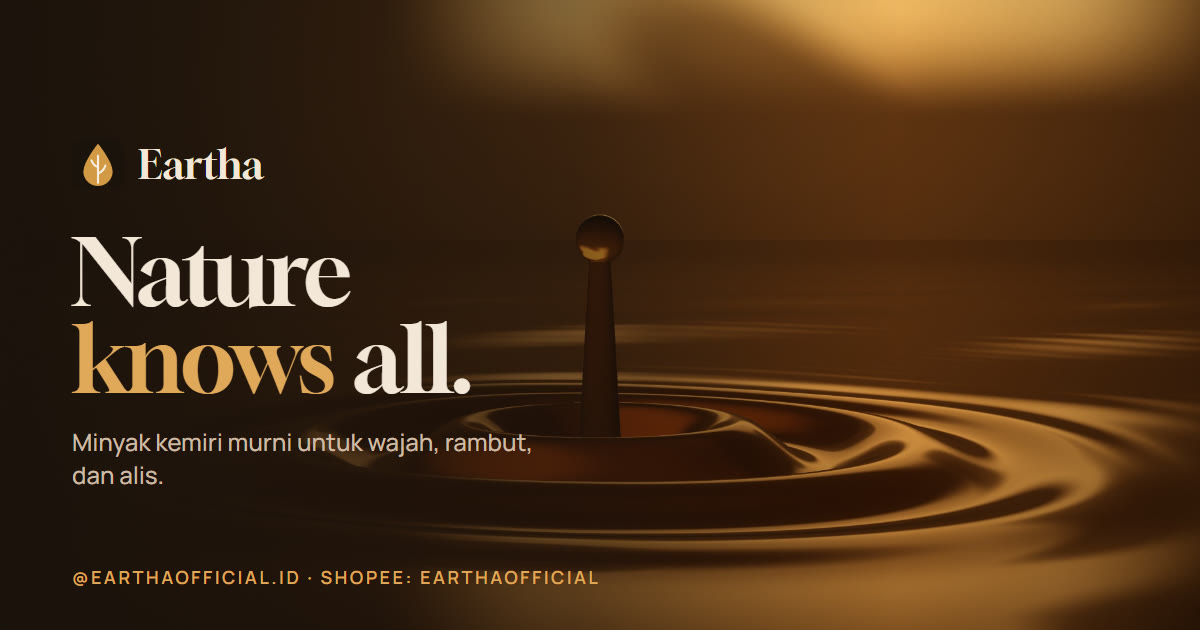
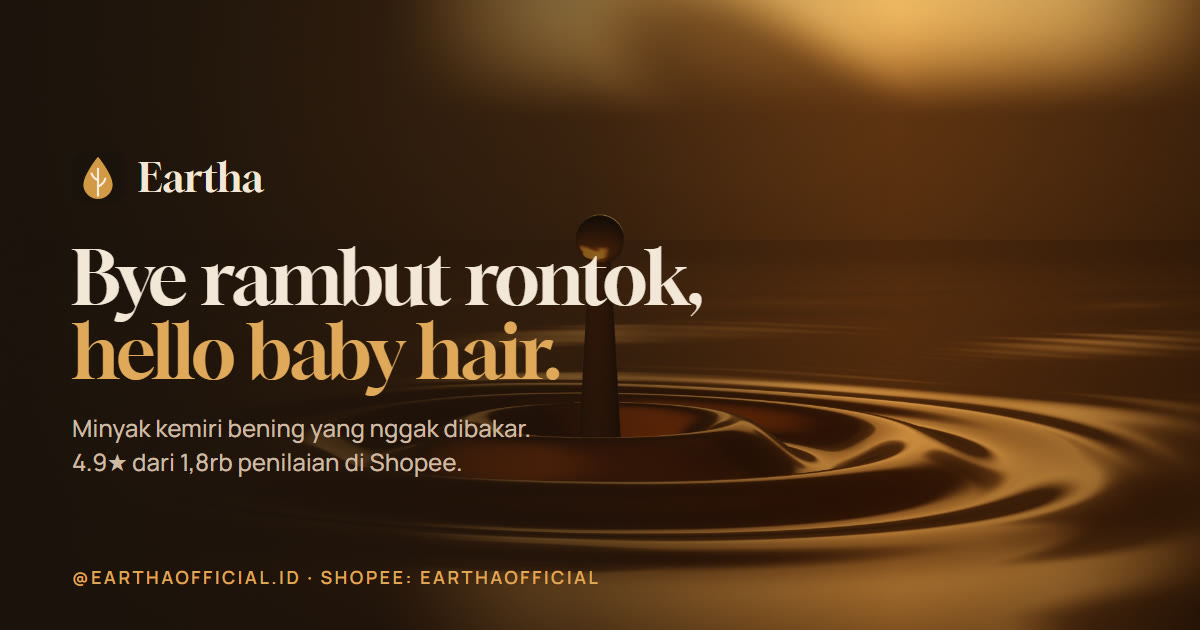
Rewrite copy with 6P, 5C and hook-body-CTA

Changed region(s): [[0.0617, 0.3619, 0.5858, 0.6333], [0.0617, 0.6635, 0.4625, 0.7841], [0.0617, 0.2413, 0.2158, 0.3317]]

diff --git a/index.html b/index.html
@@ -3,23 +3,23 @@
 <head>
 <meta charset="utf-8">
 <meta name="viewport" content="width=device-width, initial-scale=1, viewport-fit=cover">
-<title>Eartha Official — Minyak Kemiri Murni untuk Rambut, Alis &amp; Wajah</title>
-<meta name="description" content="Minyak kemiri Eartha dibuat tanpa dibakar, jadi bening, bukan hitam. Lavender Infused untuk kulit kepala berketombe, Nourishing Oil (kemiri + seledri) untuk rambut rontok, plus Salmon en Croute untuk hampers. 4.9★ di Shopee.">
+<title>Eartha — Minyak Kemiri Bening untuk Rambut Rontok &amp; Ketombe</title>
+<meta name="description" content="Minyak kemiri yang nggak dibakar, jadi bening dan nggak ninggalin bekas hitam di bantal. Nourishing Oil untuk rambut rontok, Lavender untuk ketombe. 4.9★ dari 1,8rb penilaian di Shopee.">
 <link rel="canonical" href="https://somau.github.io/eartha/">
 <meta name="theme-color" content="#1a130c">
 <meta property="og:type" content="website">
 <meta property="og:site_name" content="Eartha Official">
 <meta property="og:locale" content="id_ID">
-<meta property="og:title" content="Eartha Official — Nature knows all">
-<meta property="og:description" content="Minyak kemiri bening yang nggak dibakar, untuk kulit kepala, alis, dan wajah. Bye rambut rontok, hello baby hair.">
+<meta property="og:title" content="Bye rambut rontok, hello baby hair. | Eartha">
+<meta property="og:description" content="Minyak kemiri bening yang nggak dibakar. Teteskan, pijat, tinggal tidur. 4.9★ dari 1,8rb penilaian di Shopee.">
 <meta property="og:url" content="https://somau.github.io/eartha/">
 <meta property="og:image" content="https://somau.github.io/eartha/og.jpg">
 <meta property="og:image:width" content="1200">
 <meta property="og:image:height" content="630">
-<meta property="og:image:alt" content="Setetes minyak kemiri jatuh ke permukaan minyak keemasan, dengan logo Eartha">
+<meta property="og:image:alt" content="Setetes minyak kemiri jatuh ke permukaan minyak keemasan, dengan tulisan Bye rambut rontok, hello baby hair">
 <meta name="twitter:card" content="summary_large_image">
-<meta name="twitter:title" content="Eartha Official — Nature knows all">
-<meta name="twitter:description" content="Minyak kemiri murni untuk wajah, rambut, dan alis.">
+<meta name="twitter:title" content="Bye rambut rontok, hello baby hair. | Eartha">
+<meta name="twitter:description" content="Minyak kemiri bening yang nggak dibakar. Teteskan, pijat, tinggal tidur.">
 <meta name="twitter:image" content="https://somau.github.io/eartha/og.jpg">
 <link rel="icon" href="favicon.svg" type="image/svg+xml">
 <link rel="icon" href="favicon-32.png" sizes="32x32" type="image/png">
@@ -129,9 +129,10 @@ h2 em,h1 em,h3 em{font-style:normal;color:var(--amber-deep)}
 .hero .l-leaves svg.left{left:-10%;right:auto;bottom:auto;top:-18%;width:min(36vw,420px);transform:rotate(160deg);opacity:.7}
 .hero .l-copy{z-index:3;display:flex;align-items:flex-end}
 .hero .copy{padding-bottom:clamp(56px,11vh,120px);max-width:760px}
-.hero h1{font-size:clamp(52px,9vw,124px);line-height:.95;margin:0 0 22px;font-weight:400;letter-spacing:-.02em}
+.hero h1{font-size:clamp(46px,7.4vw,108px);line-height:.98;margin:0 0 22px;font-weight:400;letter-spacing:-.02em}
 .hero p.lede .hl{color:var(--on-dark)}
 .hero p.lede{font-size:clamp(17px,1.6vw,20px);color:var(--on-dark-muted);max-width:30em;margin:0 0 30px}
+.hero .local .stars{color:#e0a95a;letter-spacing:1px;margin-right:4px}
 .hero .local{margin:26px 0 0;font-size:13px;color:var(--on-dark-muted);letter-spacing:.04em}
 .hero .ctas{display:flex;gap:12px;flex-wrap:wrap}
 .vid-toggle{position:absolute;right:var(--gutter);bottom:28px;z-index:4;width:44px;height:44px;border-radius:50%;border:1px solid rgba(243,232,216,.35);background:rgba(26,19,12,.35);color:var(--on-dark);display:grid;place-items:center;cursor:pointer;backdrop-filter:blur(6px)}
@@ -145,6 +146,8 @@ h2 em,h1 em,h3 em{font-style:normal;color:var(--amber-deep)}
 .about .grid{display:grid;grid-template-columns:1.05fr .95fr;gap:clamp(40px,7vw,110px);align-items:center}
 .about h2{margin:18px 0 26px}
 .about p{color:var(--muted);max-width:34em;margin:0 0 18px}
+.about .pull{font:400 20px/1.4 var(--serif);color:var(--ink);border-left:2px solid var(--amber);padding-left:16px;margin-top:26px}
+.about .pull span{display:block;font:500 13px/1.4 var(--sans);color:var(--muted);margin-top:8px}
 .facts{display:grid;grid-template-columns:repeat(3,1fr);gap:0;margin-top:40px;border-top:1px solid var(--line)}
 .facts div{padding:20px 16px 0 0}
 .facts b{display:block;font:400 30px/1.1 var(--serif);color:var(--ink)}
@@ -170,6 +173,8 @@ h2 em,h1 em,h3 em{font-style:normal;color:var(--amber-deep)}
 .card .tag{font:600 11px/1 var(--sans);letter-spacing:.18em;text-transform:uppercase;color:var(--amber-deep)}
 .card h3{font-size:clamp(26px,2.6vw,34px);line-height:1.08}
 .card p{margin:0;color:var(--muted);font-size:16px}
+.card p.proof{font:400 17px/1.45 var(--serif);color:var(--ink);background:var(--cream);border-radius:6px;padding:14px 16px}
+.card p.proof span{display:block;font:500 12.5px/1.4 var(--sans);color:var(--muted);margin-top:6px}
 .card ul{margin:2px 0 0;padding:0;list-style:none;display:flex;flex-wrap:wrap;gap:8px}
 .card li{font-size:12.5px;padding:6px 11px;border-radius:999px;background:var(--cream);color:var(--ink)}
 .card .foot{margin-top:auto;padding-top:18px;display:flex;justify-content:space-between;align-items:center;gap:12px;border-top:1px solid var(--line)}
@@ -188,7 +193,8 @@ h2 em,h1 em,h3 em{font-style:normal;color:var(--amber-deep)}
 .kitchen .eyebrow{color:#d8b47a}
 .kitchen h3{font-size:clamp(32px,3.8vw,50px);line-height:1.04;margin:14px 0 18px}
 .kitchen p{color:#cfc5b2;margin:0 0 20px}
-.kitchen .crunch{display:block;color:var(--on-dark);font:400 21px/1.3 var(--serif);margin-bottom:8px}
+.kitchen .crunch{display:block;color:var(--on-dark);font:400 22px/1.3 var(--serif)}
+.kitchen .who{display:block;font-size:13px;color:#b9ae99;margin-top:6px}
 .kitchen dl{display:grid;grid-template-columns:auto 1fr;gap:10px 22px;margin:0 0 26px;font-size:15px}
 .kitchen dt{color:#d8b47a;font-weight:600}
 .kitchen dd{margin:0;color:var(--on-dark)}
@@ -230,6 +236,7 @@ h2 em,h1 em,h3 em{font-style:normal;color:var(--amber-deep)}
 .rcard blockquote{margin:0;font:500 16.5px/1.6 var(--sans);color:var(--ink)}
 .rcard figcaption{margin-top:auto;font-size:13px;color:#5b4d40;border-top:1px solid var(--line);padding-top:14px}
 .rcard figcaption b{color:var(--ink);font-weight:600}
+.rev-by{margin:14px 0 0;font-size:14px;color:var(--muted)}
 .rev-note{margin:26px 0 0;font-size:13.5px;color:var(--muted)}
 @media (prefers-reduced-motion: reduce){
   .marquees{-webkit-mask-image:none;mask-image:none}
@@ -242,6 +249,8 @@ h2 em,h1 em,h3 em{font-style:normal;color:var(--amber-deep)}
 /* footer cta */
 .closing{background:var(--sand);padding:clamp(90px,12vw,150px) 0 40px;position:relative;overflow:hidden}
 .closing h2{max-width:11em}
+.closing .also{margin:22px 0 0;font-size:15px;color:#55473a}
+.closing .also a{color:var(--ink);font-weight:600}
 .close-sub{margin:18px 0 0;font-size:18px;color:#55473a;max-width:30em}
 .closing .ctas~*, .closing p{color:#55473a}
 .closing .ctas{display:flex;gap:12px;flex-wrap:wrap;margin:34px 0 0}
@@ -330,13 +339,13 @@ h2 em,h1 em,h3 em{font-style:normal;color:var(--amber-deep)}
     <div class="layer l-copy" data-depth="0.14">
       <div class="wrap">
         <div class="copy">
-          <h1>Nature <em>knows</em> all.</h1>
-          <p class="lede">Minyak kemiri yang bening, bukan hitam, karena kemirinya nggak dibakar. Teteskan ke kulit kepala, alis, dan wajah. <span class="hl">Bye rambut rontok, hello baby hair.</span></p>
+          <h1>Bye rambut rontok, <em>hello baby hair.</em></h1>
+          <p class="lede">Minyak kemiri yang nggak dibakar. Bening, jadi nggak ninggalin bekas hitam di bantal. <span class="hl">Teteskan, pijat, tinggal tidur.</span></p>
           <div class="ctas">
-            <a class="btn btn-amber" href="#produk">Lihat produk <svg><use href="#arrow"/></svg></a>
+            <a class="btn btn-amber" href="#produk">Pilih minyakmu <svg><use href="#arrow"/></svg></a>
             <a class="btn btn-ghost" href="https://shopee.co.id/earthaofficial" rel="noopener" target="_blank">Belanja di Shopee</a>
           </div>
-          <p class="local">Proud #LocalBrand · Indonesia</p>
+          <p class="local"><span class="stars">★★★★★</span> 4.9 dari 1,8rb penilaian di Shopee · Proud #LocalBrand Indonesia</p>
         </div>
       </div>
     </div>
@@ -347,13 +356,15 @@ h2 em,h1 em,h3 em{font-style:normal;color:var(--amber-deep)}
   <section class="about" id="tentang">
     <div class="wrap grid">
       <div>
-        <div class="eyebrow rv">Tentang Eartha</div>
-        <h2 class="rv d1">Kemiri yang <em>nggak dibakar</em>.</h2>
-        <p class="rv d2">Banyak minyak kemiri berwarna hitam karena kemirinya dibakar dulu. Eartha Nourishing Oil dibuat tanpa proses pembakaran, jadi minyaknya bening. Kata pembeli kami, nggak ada bekas hitam yang nempel di bantal walau dipakai semalaman.</p>
-        <p class="rv d2">Varian lavendernya juga bukan tetesan essential oil. Bunga lavender asli direndam di minyak kemiri kurang lebih dua minggu, dan bulirnya kelihatan di dalam botol. Setiap botol 60 ml datang dengan spoolie untuk alis, tutup childproof, dan bubble wrap tebal.</p>
+        <div class="eyebrow rv">Kenapa bening?</div>
+        <h2 class="rv d1">Minyak kemiri <em>nggak harus hitam</em>.</h2>
+        <p class="rv d2">Banyak orang mengira minyak kemiri memang hitam. Padahal hitamnya datang dari kemiri yang dibakar dulu. Hasilnya bisa ninggalin bekas di rambut, alis, dan sarung bantal.</p>
+        <p class="rv d2">Eartha Nourishing Oil dibuat tanpa dibakar. Minyaknya bening. Kamu bisa pakai semalaman tanpa mikirin bantal.</p>
+        <p class="rv d2">Varian lavendernya pun bukan tetesan essential oil. Bunga lavender asli kami rendam di minyak kemiri kira-kira dua minggu. Bulirnya kelihatan di dalam botol.</p>
+        <p class="pull rv d2">“…ga ninggalin bekas hitam2.. di bawa tidur jg ga khawatir nempel bekas di bantal..”<span>purpleunicorn99, pembeli di Shopee</span></p>
         <div class="facts rv d3">
           <div><b>4.9<span style="color:var(--amber)">★</span></b><small>dari 1,8rb penilaian toko di Shopee</small></div>
-          <div><b>Bening</b><small>Nourishing Oil tanpa proses pembakaran</small></div>
+          <div><b>183</b><small>botol Lavender terjual di Shopee</small></div>
           <div><b>2 minggu</b><small>lavender asli direndam, bukan essential oil</small></div>
         </div>
       </div>
@@ -369,19 +380,20 @@ h2 em,h1 em,h3 em{font-style:normal;color:var(--amber-deep)}
     <div class="wrap">
       <div class="sec-head">
         <div>
-          <div class="eyebrow rv">Produk</div>
-          <h2 class="rv d1">Pilih sesuai <em>masalah rambutmu</em>.</h2>
+          <div class="eyebrow rv">Pilih minyakmu</div>
+          <h2 class="rv d1">Rontok, <em>atau ketombe?</em></h2>
         </div>
-        <p class="rv d2">Dua-duanya 60 ml, bening, dan bisa dipakai dari kulit kepala sampai wajah. Bedanya ada di bahan kedua: lavender atau seledri.</p>
+        <p class="rv d2">Dua masalah, dua botol. Pilih yang paling mengganggu kamu sekarang. Dua-duanya 60 ml, bening, dan bisa juga dipakai untuk alis dan wajah.</p>
       </div>
 
       <div class="oils">
         <article class="card rv">
           <div class="img"><img src="img/lavender.webp" srcset="img/lavender-520.webp 520w, img/lavender.webp 900w" sizes="(max-width:860px) 92vw, 560px" width="900" height="900" alt="Eartha Lavender Infused Candlenut Oil 60 ml, label ungu" loading="lazy" decoding="async"></div>
           <div class="body">
-            <span class="tag">Untuk ketombe &amp; kulit kepala gatal</span>
+            <span class="tag">Kalau kulit kepala gatal &amp; berketombe</span>
             <h3>Lavender Infused Candlenut Oil</h3>
-            <p>Bunga lavender asli direndam ±2 minggu dalam minyak kemiri. Sifat antiseptiknya bantu mencegah gatal akibat ketombe, sementara kemirinya merangsang tumbuhnya anak rambut.</p>
+            <p>Bunga lavender asli, direndam dua minggu dalam minyak kemiri. Sifat antiseptiknya bantu mencegah gatal akibat ketombe. Kemirinya merawat akar rambut.</p>
+            <p class="proof">“…bikin rambut lembut shiny dan bebas ketombe. Dipake setelah keramas ga bikin lepek.” <span>aquamarine15</span></p>
             <ul><li>Ketombe</li><li>Anak rambut</li><li>Alis</li><li>Night face oil</li></ul>
             <div class="foot">
               <div class="price">Rp67.999<small>4.9 ★ · 183 terjual di Shopee</small></div>
@@ -392,9 +404,10 @@ h2 em,h1 em,h3 em{font-style:normal;color:var(--amber-deep)}
         <article class="card rv d1">
           <div class="img"><img src="img/nourish.webp" srcset="img/nourish-520.webp 520w, img/nourish.webp 900w" sizes="(max-width:860px) 92vw, 560px" width="900" height="900" alt="Eartha Nourishing Oil 60 ml, label hijau, di atas batu putih" loading="lazy" decoding="async"></div>
           <div class="body">
-            <span class="tag">Untuk rambut tipis &amp; rontok</span>
+            <span class="tag">Kalau rambut tipis &amp; rontok</span>
             <h3>Nourishing Oil — Kemiri + Seledri</h3>
-            <p>Solusi buat kamu yang cari hair oil alami untuk melebatkan dan menumbuhkan rambut. 100% kemiri + seledri, tanpa dibakar, aman untuk semua jenis kulit kepala.</p>
+            <p>Rambut di sisir makin banyak? Nourishing Oil memadukan kemiri dan seledri, tanpa dibakar, untuk mengurangi kerontokan, melebatkan, dan menghitamkan rambut. Bisa untuk semua jenis kulit kepala.</p>
+            <p class="proof">Dari Eartha: “dijamin anak rambut kamu akan berterimakasih 😂” <span>caption Instagram @earthaofficial.id</span></p>
             <ul><li>Kurangi rontok</li><li>Menebalkan</li><li>Menghitamkan</li><li>Akar lebih kuat</li></ul>
             <div class="foot">
               <div class="price">Rp67.999<small>4.9 ★ · 76 terjual di Shopee</small></div>
@@ -403,23 +416,24 @@ h2 em,h1 em,h3 em{font-style:normal;color:var(--amber-deep)}
           </div>
         </article>
       </div>
-      <p class="bundle-note rv">Rontok <em>dan</em> berketombe? Ambil bundle Lavender + Nourishing, atau Pure Candlenut + Nourishing, di <a href="https://shopee.co.id/earthaofficial" rel="noopener" target="_blank">toko Shopee Eartha</a>.</p>
+      <p class="bundle-note rv">Rontok <em>dan</em> berketombe? Ambil bundle Lavender + Nourishing, Rp130.999, di <a href="https://shopee.co.id/Eartha-Bundle-Lavender-Infused-Candlenut-Oil-Nourishing-Oil-i.292424309.23321924327" rel="noopener" target="_blank">Shopee</a>.</p>
 
       <article class="kitchen rv" aria-labelledby="salmon-title">
         <div class="pic"><img src="img/salmon-wide.webp" data-depth="0.1" width="1200" height="972" alt="Salmon en Croute Eartha di atas piring, dengan kotak hampers krem bertuliskan Eartha" loading="lazy" decoding="async"></div>
         <div class="txt">
-          <div class="eyebrow">Dari dapur Eartha · Hampers</div>
-          <h3 id="salmon-title">Salmon en Croute, <em>Signature Series</em></h3>
-          <p><b class="crunch">If you hear a crunch… that’s us.</b> Fillet salmon segar (bukan olahan) dibalut puff pastry homemade yang buttery dan flaky, dengan saus jamur khas Eartha. Tanpa pengawet, dibuat per batch dengan kuota terbatas. Bisa request hangtag ulang tahun untuk hampers.</p>
+          <div class="eyebrow">Untuk yang mau kirim hampers</div>
+          <h3 id="salmon-title">Hampers yang bikin penerima <em>langsung chat balik</em>.</h3>
+          <p><b class="crunch">“sumpah enak banget asli ga boong kata yg nerima”</b><span class="who">pembeli Salmon en Croute di Shopee</span></p>
+          <p>Salmon en Croute: fillet salmon segar, bukan olahan, dibalut puff pastry homemade yang buttery dan flaky, dengan saus jamur khas Eartha. Tanpa pengawet. Bisa request hangtag ulang tahun.</p>
           <dl>
             <dt>Small</dt><dd>8 × 8 cm, porsi personal</dd>
             <dt>Full</dt><dd>22 × 8 cm, pas untuk 2–3 orang</dd>
             <dt>Sajikan</dt><dd>Oven / air fryer 180°C, 5–7 menit, pastry kembali flaky</dd>
-            <dt>Kirim</dt><dd>Tulis tanggal kirim di catatan; tambah thermal bag Rp5.000</dd>
+            <dt>Kuota</dt><dd>Terbatas tiap batch. Tulis tanggal kirim di catatan pesanan.</dd>
           </dl>
           <div class="row">
             <div class="price">Rp130.000<small style="color:#cfc5b2">5.0 ★ di Shopee</small></div>
-            <a class="btn btn-amber" href="https://shopee.co.id/Salmon-en-Croute-Signature-Series-i.292424309.57301483059" rel="noopener" target="_blank">Pesan <svg><use href="#arrow"/></svg></a>
+            <a class="btn btn-amber" href="https://shopee.co.id/Salmon-en-Croute-Signature-Series-i.292424309.57301483059" rel="noopener" target="_blank">Amankan slot batch <svg><use href="#arrow"/></svg></a>
           </div>
         </div>
       </article>
@@ -430,8 +444,8 @@ h2 em,h1 em,h3 em{font-style:normal;color:var(--amber-deep)}
     <div class="glow" data-depth="-0.18" aria-hidden="true"></div>
     <div class="wrap">
       <div class="eyebrow rv">Cara pakai</div>
-      <h2 class="rv d1">Sedikit saja, <em>asal rutin</em>.</h2>
-      <p class="sub rv d2">Takaran dari Eartha untuk Lavender Infused Candlenut Oil. Satu botol bisa dipakai untuk empat hal ini.</p>
+      <h2 class="rv d1">Teteskan. Pijat. <em>Tinggal tidur.</em></h2>
+      <p class="sub rv d2">Nggak perlu ritual ribet. Ini takaran dari Eartha untuk Lavender Infused Candlenut Oil, dan satu botol bisa dipakai untuk empat hal.</p>
       <div class="steps">
         <div class="step rv"><span class="n">i</span><div class="drops" aria-hidden="true"><svg><use href="#drop"/></svg><svg><use href="#drop"/></svg><svg><use href="#drop"/></svg><svg><use href="#drop"/></svg></div><h3>Kulit kepala</h3><p>Teteskan merata, pijat sebentar, diamkan 20–30 menit atau semalaman, lalu keramas. Setelah keramas, cukup 3–4 tetes agar tidak lepek.</p></div>
         <div class="step rv d1"><span class="n">ii</span><div class="drops" aria-hidden="true"><svg><use href="#drop"/></svg><svg><use href="#drop"/></svg><svg><use href="#drop"/></svg></div><h3>Alis</h3><p>2–3 tetes pada spoolie, sapukan ke alis, diamkan 20–30 menit atau semalaman, lalu bilas.</p></div>
@@ -447,7 +461,8 @@ h2 em,h1 em,h3 em{font-style:normal;color:var(--amber-deep)}
       <div class="sec-head">
         <div>
           <div class="eyebrow rv">Ulasan pembeli</div>
-          <h2 class="rv d1">Repeat order, <em>berbotol-botol</em>.</h2>
+          <h2 class="rv d1">“Rambutku dulu tipis, <em>skrg tebal</em>.”</h2>
+          <p class="rev-by rv d1">heidy990, sudah beli “berbotol²”</p>
         </div>
         <div class="rating-line rv d2"><span class="stars" aria-hidden="true">★★★★★</span><span>4.9 dari 1,8rb penilaian toko di Shopee</span></div>
       </div>
@@ -472,17 +487,16 @@ h2 em,h1 em,h3 em{font-style:normal;color:var(--amber-deep)}
   <section class="closing" id="belanja">
     <svg class="sprig" data-depth="-0.15" viewBox="0 0 400 400" aria-hidden="true"><use href="#branch"/></svg>
     <div class="wrap">
-      <div class="eyebrow rv">Belanja &amp; ikuti</div>
-      <h2 class="rv d1">Mulai dari <em>satu botol</em>.</h2>
-      <p class="close-sub rv d1">Dikirim Senin–Sabtu, dibungkus bubble wrap tebal, plus spoolie untuk alis.</p>
+      <div class="eyebrow rv">Mulai hari ini</div>
+      <h2 class="rv d1">Rambut rontok? Mulai dari <em>satu botol</em>.</h2>
+      <p class="close-sub rv d1">Nourishing Oil 60 ml, Rp67.999, sudah termasuk spoolie untuk alis. Checkout di Shopee. Pengiriman Senin–Sabtu, sebelum jam 3 sore.</p>
       <div class="ctas rv d2">
-        <a class="btn btn-ink" href="https://shopee.co.id/earthaofficial" rel="noopener" target="_blank"><svg><use href="#bag"/></svg>Toko Shopee: earthaofficial</a>
-        <a class="btn btn-line" href="https://www.instagram.com/earthaofficial.id/" rel="noopener" target="_blank">Instagram @earthaofficial.id</a>
-        <a class="btn btn-line" href="https://linktr.ee/Earthaofficial.id" rel="noopener" target="_blank">Katalog &amp; link lain</a>
+        <a class="btn btn-ink" href="https://shopee.co.id/Eartha-Nourishing-Oil-Minyak-Kemiri-Seledri--i.292424309.22908807570" rel="noopener" target="_blank"><svg><use href="#bag"/></svg>Beli Nourishing Oil di Shopee</a>
       </div>
+      <p class="also rv d2">Lebih sering berketombe? <a href="https://shopee.co.id/Eartha-Lavender-Infused-Candlenut-Oil-60ml-i.292424309.5459222546" rel="noopener" target="_blank">Pilih Lavender</a>. Ikuti <a href="https://www.instagram.com/earthaofficial.id/" rel="noopener" target="_blank">@earthaofficial.id</a> atau lihat <a href="https://linktr.ee/Earthaofficial.id" rel="noopener" target="_blank">katalog lengkap</a>.</p>
       <div class="meta">
-        <span>© Eartha Official · Proud local brand Indonesia</span>
-        <span>Pengiriman produk perawatan rambut setiap Senin–Sabtu</span>
+        <span>© Eartha Official · Nature knows all · Proud local brand Indonesia</span>
+        <span>Toko resmi di Shopee: earthaofficial</span>
       </div>
     </div>
   </section>
